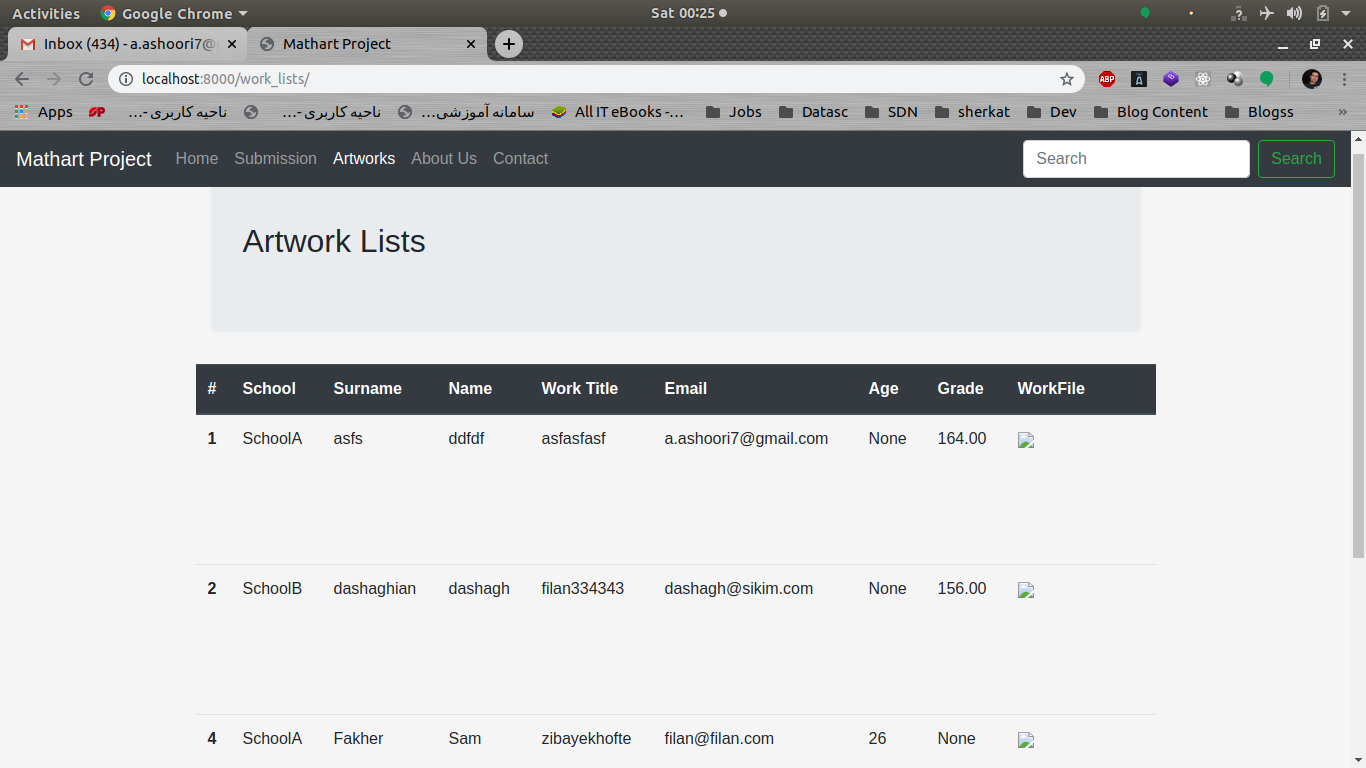
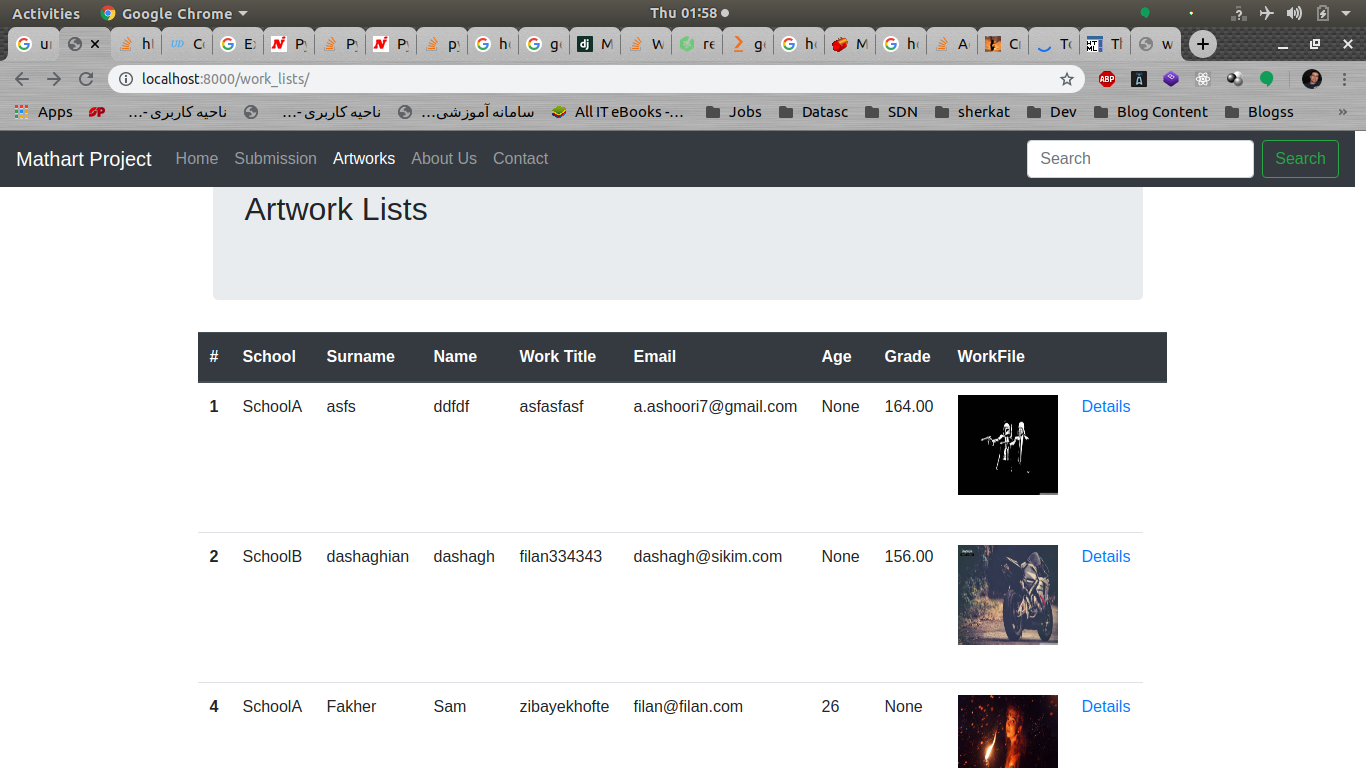
artwork image in list is fixed, work detail view and template and url are added

diff --git a/templates/work_details.html b/templates/work_details.html
@@ -1,0 +1,110 @@
+{% extends "base_dash.html" %}
+{% block title %}Artwork Details{% endblock %}
+
+{% block content %}
+<main role="main" class="container">
+  <div class="jumbotron">
+    <h2>Please fill in the following form to Submit your work:</h1>
+    <p class="lead"></p>
+  </div>
+  <div class="row">
+    <div class="col-md-10 offset-md-1">
+      <form action="{% url 'artwork:entry_form' %}" method="post" class="needs-validation" novalidate>
+        <h4 class="mb-3">Personal Information</h4>
+        <div class="row">
+          <div class="col-md-6 mb-3">
+            <lable for="firstname">First Name</lable>
+            <input type="text" class="form-control" id="firstname" placeholder="" value="" required>
+          </div>
+          <div class="col-md-6 mb-3">
+            <lable for="surname">Surname</lable>
+            <input type="text" class="form-control" id="surname" placeholder="" value="" required>
+          </div>
+        </div>
+        <div class="row">
+          <div class="col-md-4 mb-3">
+            <lable for="email">email</lable>
+            <input type="email" class="form-control" id="email" placeholder="you@example.com" value="" required>
+          </div>
+          <div class="col-md-4 mb-3">
+            <lable for="parentname">Parent Name</lable>
+            <input type="text" class="form-control" id="parentname" placeholder="" value="" required>
+          </div>
+          <div class="col-md-4 mb-3">
+            <lable for="parentphone">Parent Phone</lable>
+            <input type="tel" class="form-control" id="parentphone" placeholder="" value="" required>
+          </div>
+        </div>
+        <div class="row">
+          <div class="col-md-4 mb-3">
+            <lable for="school">School</lable>
+            <select class="custem-select d-block w-100" id="school" required>
+              <option value="">Choose...</option>
+              {% for school in schools %}
+              <option>{{ school.name }}<option>
+              {% endfor %}
+            </select>
+          </div>
+          <div class="col-md-4 mb-3">
+            <lable for="teachername">Teacher Name</lable>
+            <input type="text" class="form-control" id="teachername" placeholder="" value="" required>
+          </div>
+          <div class="col-md-4 mb-3">
+            <lable for="teacheremail">Teacher Email</lable>
+            <input type="email" class="form-control" id="teacheremail" placeholder="you@example.com" value="" required>
+          </div>
+        </div>
+        <div class="row">
+          <div class="col-md-4 mb-3">
+            <lable for="dob">Date of Birth</lable>
+            <input type="date" class="form-control" id="dob" placeholder="" value="" required>
+          </div>
+          <div class="col-md-4 mb-3">
+            <lable for="learnergrade">Learner Grade</lable>
+            <input type="number" class="form-control" id="learnergrade" placeholder="" value="" required>
+          </div>
+          <div class="col-md-4 mb-3">
+            <lable for="teacherphone">Teacher Phone</lable>
+            <input type="tel" class="form-control" id="teacherphone" placeholder="" value="" required>
+          </div>
+        </div><br>
+        <h4 class="mb-3">Artwork Information</h4>
+        <div class="row">
+          <div class="col-md-4 mb-3">
+            <lable for="workfile">Upload Work File</lable>
+            <input type="file" class="form-control" id="workfile" placeholder="" value="" required>
+          </div>
+          <div class="col-md-8 mb-3">
+            <lable for="surname">Work Title</lable>
+            <input type="text" class="form-control" id="worktilte" placeholder="" value="" required>
+          </div>
+        </div><br>
+        <h4 class="mb-3">Please answer the following questions:</h4>
+        <div class="row">
+          <div class="col-md-12 mb-3">
+            <lable for="question1">Question1</lable>
+            <textarea class="form-control" id="question1" rows="5"></textarea>
+          </div>
+        </div>
+        <div class="row">
+          <div class="col-md-12 mb-3">
+            <lable for="question1">Question1</lable>
+            <textarea class="form-control" id="question1" rows="5"></textarea>
+          </div>
+        </div>
+        <div class="row">
+          <div class="col-md-12 mb-3">
+            <lable for="question1">Question1</lable>
+            <textarea class="form-control" id="question1" rows="5"></textarea>
+          </div>
+        </div>
+        <div class="col text-center">
+        <button class="btn btn-primary btn-lg" type="submit">
+          Submit
+        </button>
+      </div>
+      </form>
+    </div>
+  </div>
+</main>
+{% endblock %}

diff --git a/templates/work_lists.html b/templates/work_lists.html
@@ -19,6 +19,7 @@
       <th scope="col">Age</th>
       <th scope="col">Grade</th>
       <th scope="col">WorkFile</th>
+      <th scope="col"><th>
     </tr>
   </thead>
   <tbody>
@@ -32,11 +33,14 @@
      <td>{{ work.email }}</td>
      <td>{{ work.age }}</td>
      <td>{{ work.learnergrade }}</td>
-     <td width="150" height="150"><img src='{{ work.workfile }}'></td>
+     <td width="150" height="150">
+       <img height=100 width=100 src='{{ work.workfile.url }}'>
+     </td>
+     <td><a href="{% url 'artwork:work_details' work.id %}">Details</td>
    </tr>
    {% endfor %}
  </tbody>
-</table>
+</table><a href="{{ work.get_absolute_url }}"><a href="{{ work.get_absolute_url }}"><a href="{{ work.get_absolute_url }}">
 </main>
 
 {% endblock %}

diff --git a/artwork/views.py b/artwork/views.py
@@ -5,6 +5,7 @@ and then routing requests with an appropriate response.
 '''
 
 from django.shortcuts import render, get_object_or_404
+from django.views import View
 from .models import Artwork, School
 from .forms import EntryForm
 from django.http import HttpResponse
@@ -26,8 +27,7 @@ def about(request):
 def work_lists(request):
     works = Artwork.objects.all()
     context = {'works': works}
-    return render(request,
-                  'work_lists.html', context)
+    return render(request, 'work_lists.html', context)
     '''
     school = None
     schools = School.objects.all()
@@ -42,9 +42,11 @@ def work_lists(request):
                     'works':works})
     '''
 
-def work_detail(request, id, surname):
+def work_details(request, id, surname):
     work = get_object_or_404(Artwork, id=id, surname=surname)
-    return render('works/work_detail.html', {'work': work})
+    context = {'work': work}
+    return render(request, 'work_details.html', context)
+
 
 def entry_form(request):
     schools = School.objects.all()

diff --git a/artwork/models.py b/artwork/models.py
@@ -2,6 +2,7 @@ from django.db import models
 from dateutil.relativedelta import relativedelta
 from datetime import *
 from phone_field import PhoneField
+from django.urls import reverse
 
 class School(models.Model):
     name = models.CharField(max_length=200, db_index=True)
@@ -52,7 +53,7 @@ class Artwork(models.Model):
 
     #define the returened url when the submit button hit
     def get_absolute_url(self):
-        return reverse('mathart:index')#or thanks for submitting url
+        return "work_details/{self.id}"
 
     def __str__(self):
         return '%s %s' % (self.surname, self.firstname)

diff --git a/artwork/urls.py b/artwork/urls.py
@@ -10,8 +10,7 @@ urlpatterns = [
     path('', views.index, name='index'),
     path('entry_form/', views.entry_form, name='entry_form'),
     path('work_lists/', views.work_lists, name='work_lists'),
+    path('<int:id>/', views.work_details, name='work_details'),
     path('<school>/', views.work_lists,
           name='work_lists_by_school'),
-    path('<int:id>/<surname>/', views.work_detail,
-          name='work_detail'),
 ]
